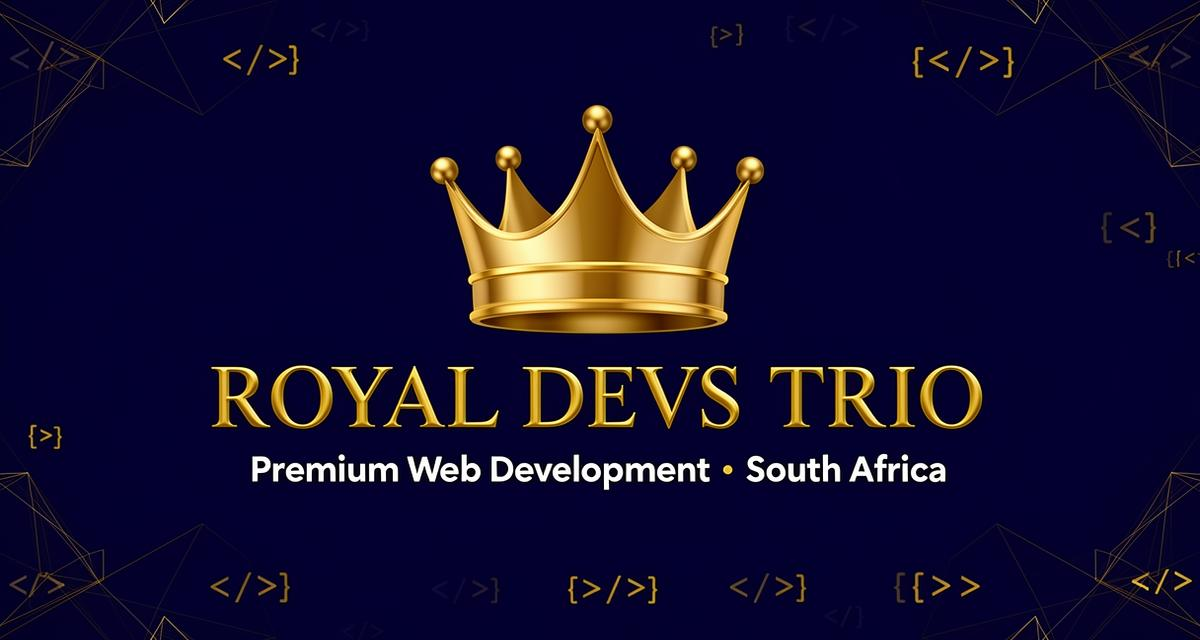
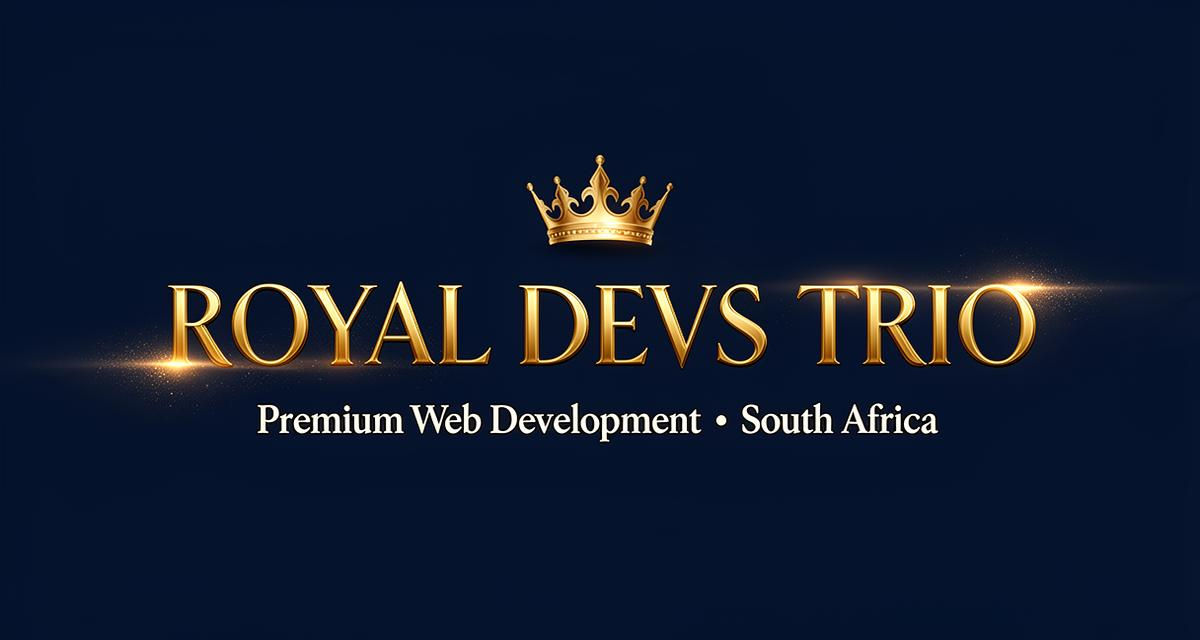
Changes

diff --git a/index.html b/index.html
@@ -22,7 +22,7 @@
     <meta property="og:url" content="https://royal-devs-forge.lovable.app/" />
     <meta property="og:site_name" content="Royal Devs Trio" />
     <meta property="og:locale" content="en_ZA" />
-    <meta property="og:image" content="https://storage.googleapis.com/gpt-engineer-file-uploads/5SAEecUjr2ZLgk3M6c74Ot2pvkS2/social-images/social-1770197691831-devs.png">
+    <meta property="og:image" content="https://royal-devs-forge.lovable.app/og-image.png">
     <meta property="og:image:width" content="1200" />
     <meta property="og:image:height" content="630" />
     <meta property="og:image:alt" content="Royal Devs Trio - Premium Web Development" />
@@ -33,7 +33,7 @@
     <meta name="twitter:card" content="summary_large_image" />
     <meta name="twitter:site" content="@RoyalDevsTrio" />
     <meta name="twitter:creator" content="@RoyalDevsTrio" />
-    <meta name="twitter:image" content="https://storage.googleapis.com/gpt-engineer-file-uploads/5SAEecUjr2ZLgk3M6c74Ot2pvkS2/social-images/social-1770197691831-devs.png">
+    <meta name="twitter:image" content="https://royal-devs-forge.lovable.app/og-image.png">
     <meta name="twitter:title" content="Royal Devs Trio | Premium Web Development South Africa">
     <meta name="twitter:description" content="South Africa's trusted web development team. We craft stunning websites, web apps, and e-commerce solutions.">
 
